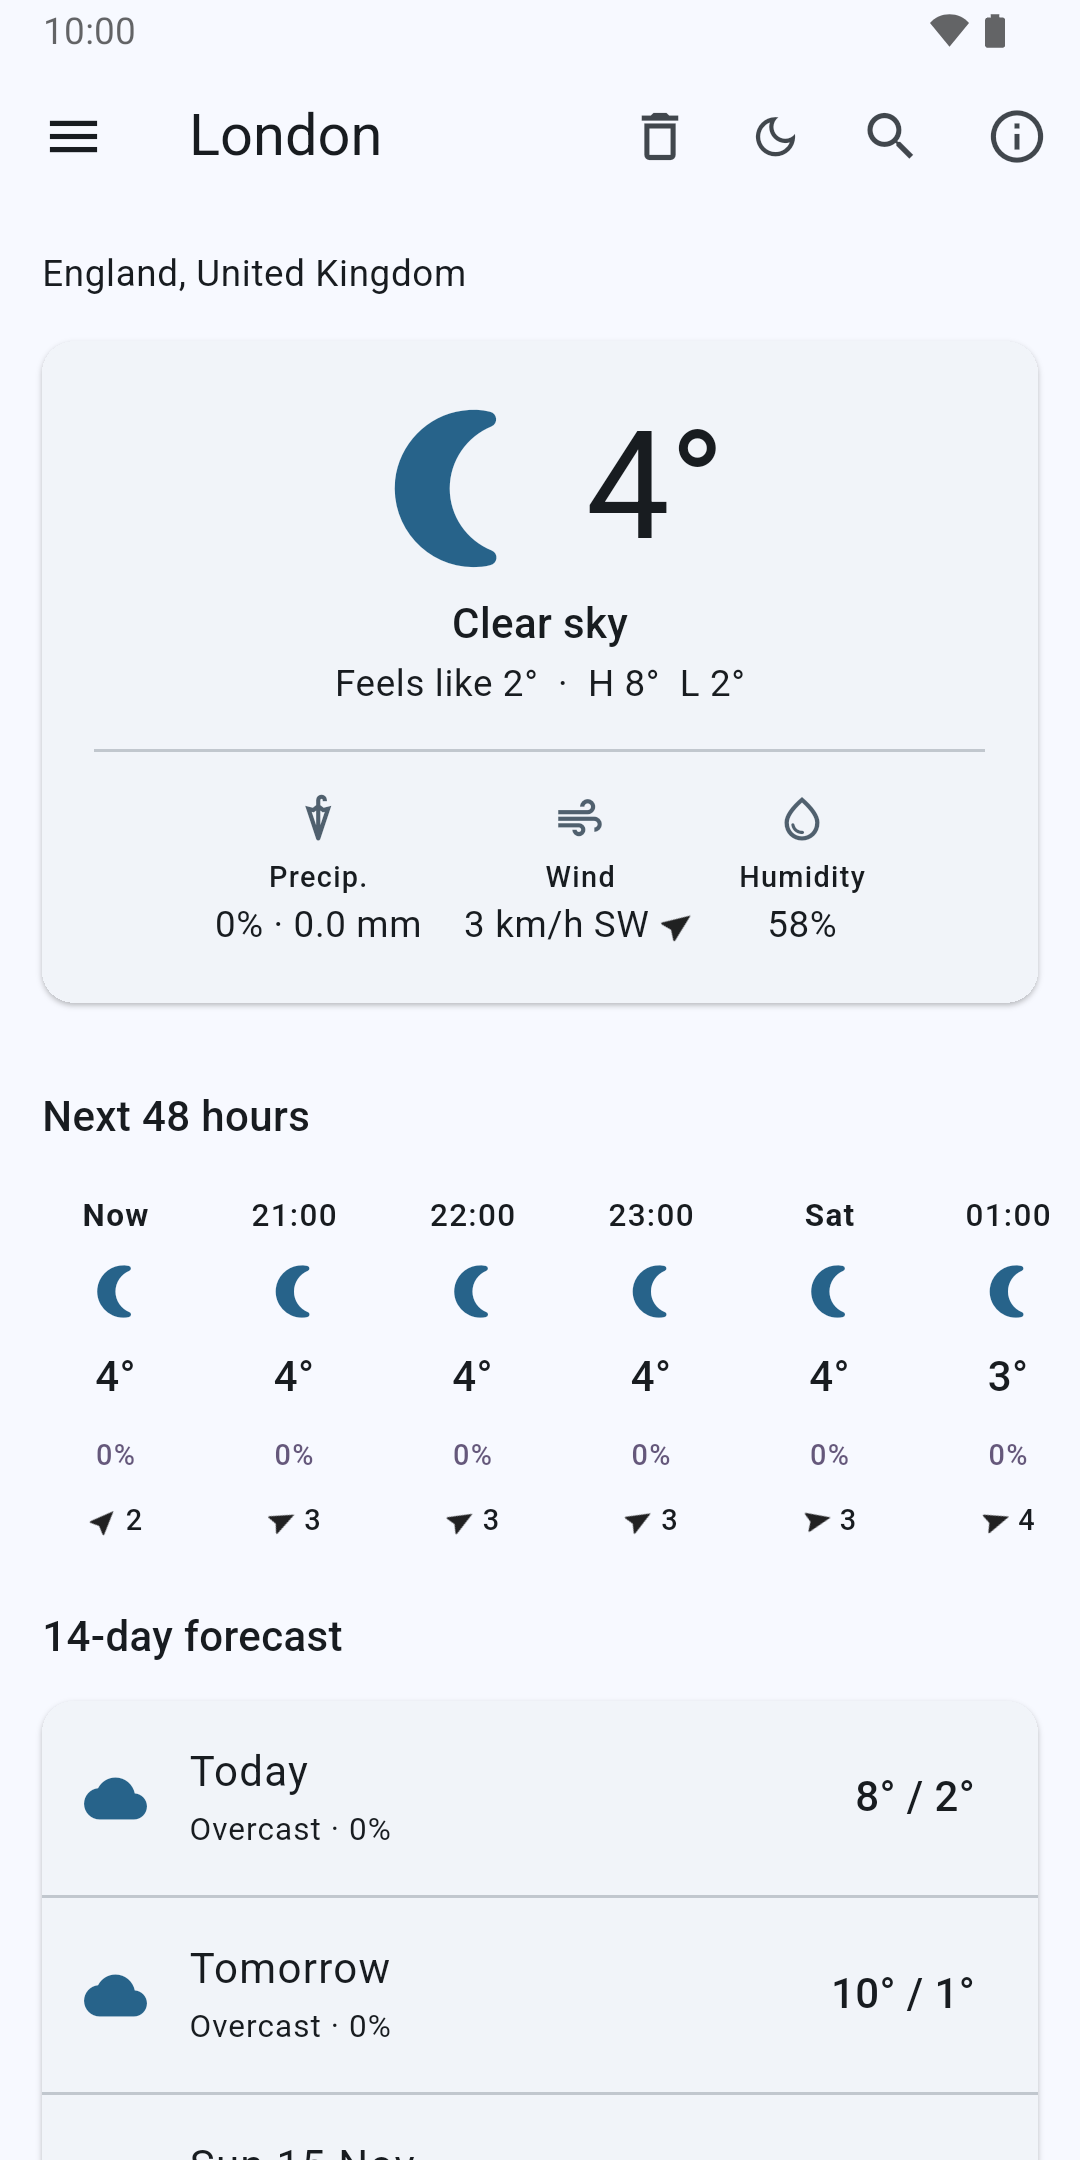
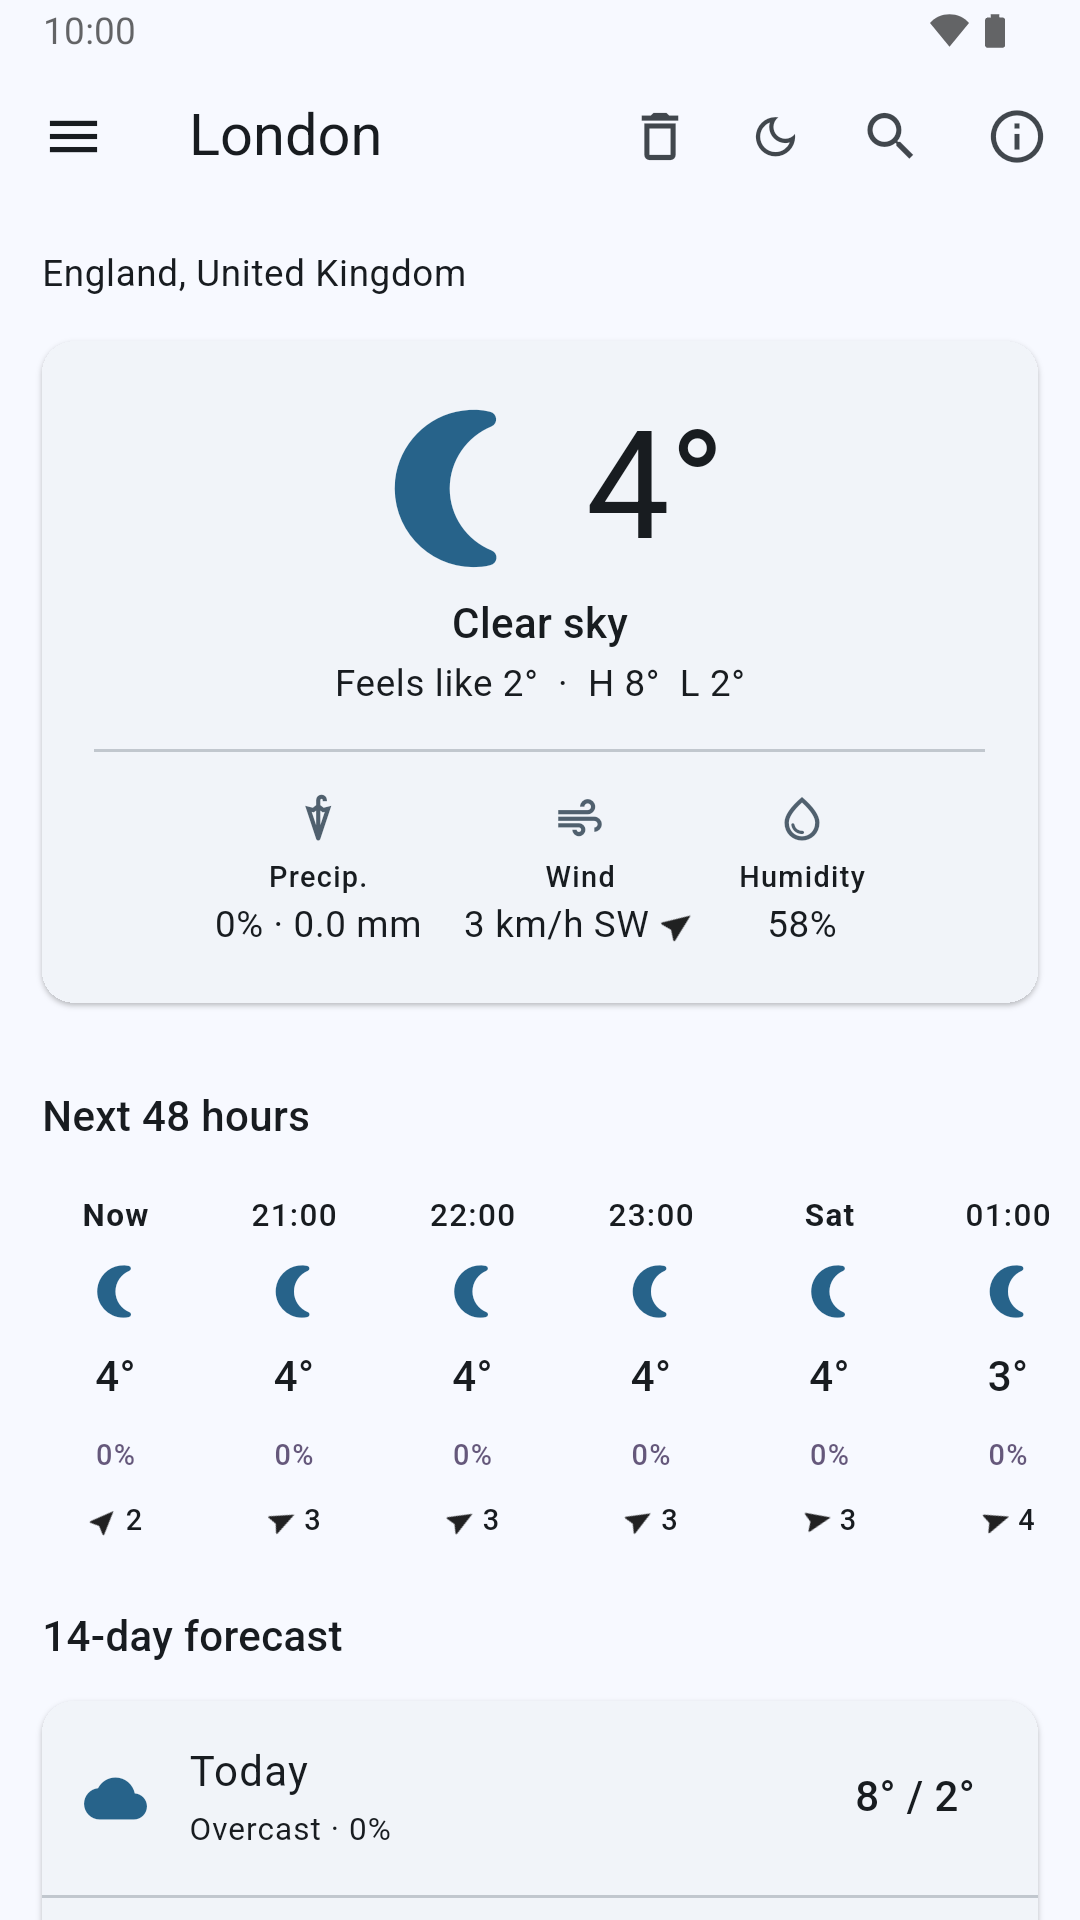
Crop store screenshots to 9:16 (1080x1920), as Play Console requires

diff --git a/doc/TODO.md b/doc/TODO.md
@@ -7,8 +7,8 @@ policy (public URL works), approximate location only, and the MIT licence. It ha
 daily on the real phone.
 
 1. ~~**Store graphics.**~~ Done 2026-11-13, in `fastlane/metadata/android/en-US/images/`: icon
-   (512×512), feature graphic (1024×500), 5 emulator screenshots cropped to 1080×2160 (Play
-   rejects anything longer than 2:1, and the emulator's 1080×2400 is 2.22:1). Use only
+   (512×512), feature graphic (1024×500), 5 emulator screenshots cropped to 1080×1920 (Play
+   Console's store listing only accepts exactly 9:16 or 16:9). Use only
    well-known cities in screenshots, and close the "Removed …" snackbar first.
 2. ~~**Store texts.**~~ Done: `title.txt`, `short_description.txt`, `full_description.txt`
    and `changelogs/3.txt` in the same folder. Still to consider: a Greek listing.
